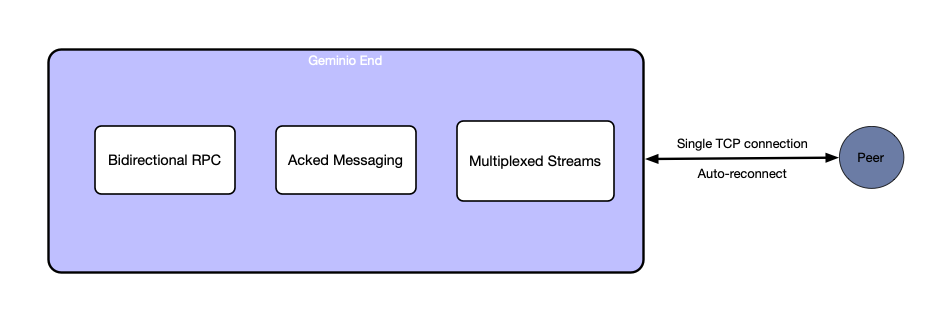
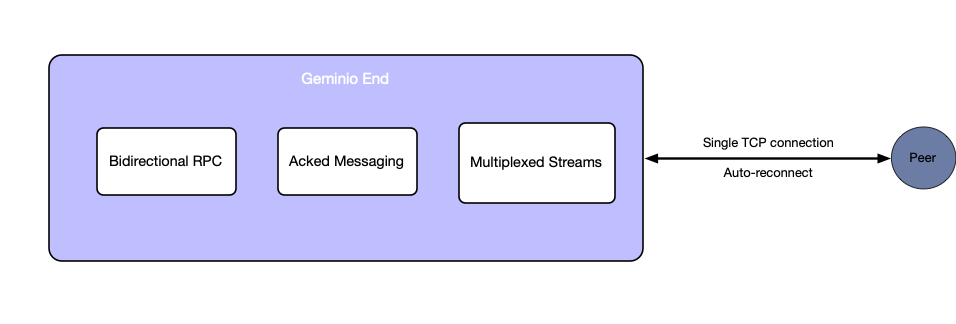
docs: update hero image and swap demo to server-push file transfer
Refresh docs/overview.png with the tuned layout. Replace the echo-RPC
60-second demo with a server-to-client file push: shows off server
initiated stream open, End as net.Listener, and io.Copy interop in
ten lines per side. RPC stays in the detailed usage guide.

diff --git a/README_cn.md b/README_cn.md
@@ -48,38 +48,45 @@
 - ⚡ **~1.3 GB/s** 的流吞吐（2016 年双核笔记本 CPU 实测，见 [基准测试](#基准测试)）。
 - 🧪 **稳定可靠**——覆盖单测、集成、端到端、压力、混沌和回归测试。
 
-## 60 秒看个 demo
+## 60 秒 demo：服务端往客户端推文件
 
 ```bash
 go get github.com/singchia/geminio
 ```
 
-**服务端**
+Geminio 里每条 stream 都是一个 `net.Conn`，每个 `End` 都是一个 `net.Listener`。于是"服务端主动推文件给客户端"这件事，一行 `io.Copy` 就够了——不用封帧、不用编解码、不用 broker。
+
+**服务端** —— 接入客户端后，反向打开一条流把文件 copy 进去。
 
 ```go
 ln, _ := server.Listen("tcp", "127.0.0.1:8080")
 for {
     end, _ := ln.AcceptEnd()
-    end.Register(context.TODO(), "echo", func(_ context.Context, req geminio.Request, rsp geminio.Response) {
-        rsp.SetData(req.Data())
-    })
+    go func() {
+        stream, _ := end.OpenStream()
+        defer stream.Close()
+        f, _ := os.Open("payload.bin")
+        defer f.Close()
+        io.Copy(stream, f)
+    }()
 }
 ```
 
-**客户端**
+**客户端** —— 把 `End` 当 `net.Listener` 用，收到的每条流直接落盘。
 
 ```go
-opt := client.NewEndOptions()
-opt.SetWaitRemoteRPCs("echo")
-
-end, _ := client.NewEnd("tcp", "127.0.0.1:8080", opt)
+end, _ := client.NewEnd("tcp", "127.0.0.1:8080")
 defer end.Close()
-
-rsp, _ := end.Call(context.TODO(), "echo", end.NewRequest([]byte("hello")))
-fmt.Println(string(rsp.Data())) // => hello
+for {
+    conn, _ := end.Accept()
+    f, _ := os.Create("received.bin")
+    io.Copy(f, conn)
+    f.Close()
+    conn.Close()
+}
 ```
 
-没有 proto 文件，没有代码生成，没有 broker。完整用法见 [`docs/USAGE_cn.md`](./docs/USAGE_cn.md)。
+服务端主动发起，客户端在自己拨出的连接上监听。剩下的交给 `io.Copy`，因为流就是 `net.Conn`。RPC、双向 RPC、带 ack 的消息、多路复用的更多玩法——完整可运行示例都在 [`docs/USAGE_cn.md`](./docs/USAGE_cn.md)。
 
 ## 可以用它搭什么
 

diff --git a/README.md b/README.md
@@ -48,38 +48,45 @@ The usual answer is: gRPC for RPC, yamux/smux for multiplexing, NATS or a custom
 - ⚡ **~1.3 GB/s** stream throughput on a 2016 laptop CPU (see [Benchmarks](#benchmarks)).
 - 🧪 **Hardened** — unit, integration, e2e, stress, chaos, and regression test suites.
 
-## 60-second demo
+## 60-second demo: push a file from server to client
 
 ```bash
 go get github.com/singchia/geminio
 ```
 
-**Server**
+Every Geminio stream is a `net.Conn`, and every `End` is a `net.Listener`. So a server-initiated file transfer is just `io.Copy` — no framing, no codec, no broker.
+
+**Server** — accept clients, open a stream back, copy the file in.
 
 ```go
 ln, _ := server.Listen("tcp", "127.0.0.1:8080")
 for {
     end, _ := ln.AcceptEnd()
-    end.Register(context.TODO(), "echo", func(_ context.Context, req geminio.Request, rsp geminio.Response) {
-        rsp.SetData(req.Data())
-    })
+    go func() {
+        stream, _ := end.OpenStream()
+        defer stream.Close()
+        f, _ := os.Open("payload.bin")
+        defer f.Close()
+        io.Copy(stream, f)
+    }()
 }
 ```
 
-**Client**
+**Client** — treat the `End` as a `net.Listener`, save each incoming stream.
 
 ```go
-opt := client.NewEndOptions()
-opt.SetWaitRemoteRPCs("echo")
-
-end, _ := client.NewEnd("tcp", "127.0.0.1:8080", opt)
+end, _ := client.NewEnd("tcp", "127.0.0.1:8080")
 defer end.Close()
-
-rsp, _ := end.Call(context.TODO(), "echo", end.NewRequest([]byte("hello")))
-fmt.Println(string(rsp.Data())) // => hello
+for {
+    conn, _ := end.Accept()
+    f, _ := os.Create("received.bin")
+    io.Copy(f, conn)
+    f.Close()
+    conn.Close()
+}
 ```
 
-No proto files. No code generation. No broker. Full examples in [`docs/USAGE.md`](./docs/USAGE.md).
+The server initiates. The client listens on its own dial-out connection. `io.Copy` does the rest because the stream speaks `net.Conn`. Full runnable examples — RPC, bidirectional RPC, acked messaging, more multiplexing — in [`docs/USAGE.md`](./docs/USAGE.md).
 
 ## What you can build
 
